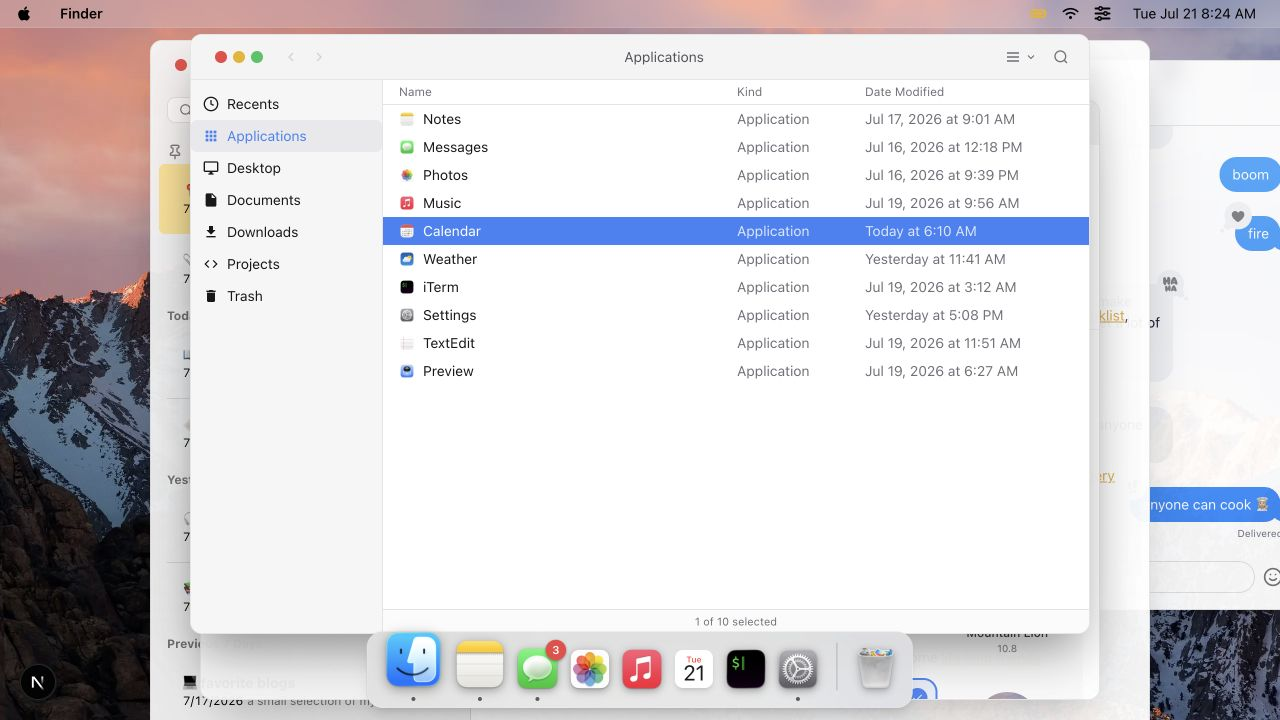
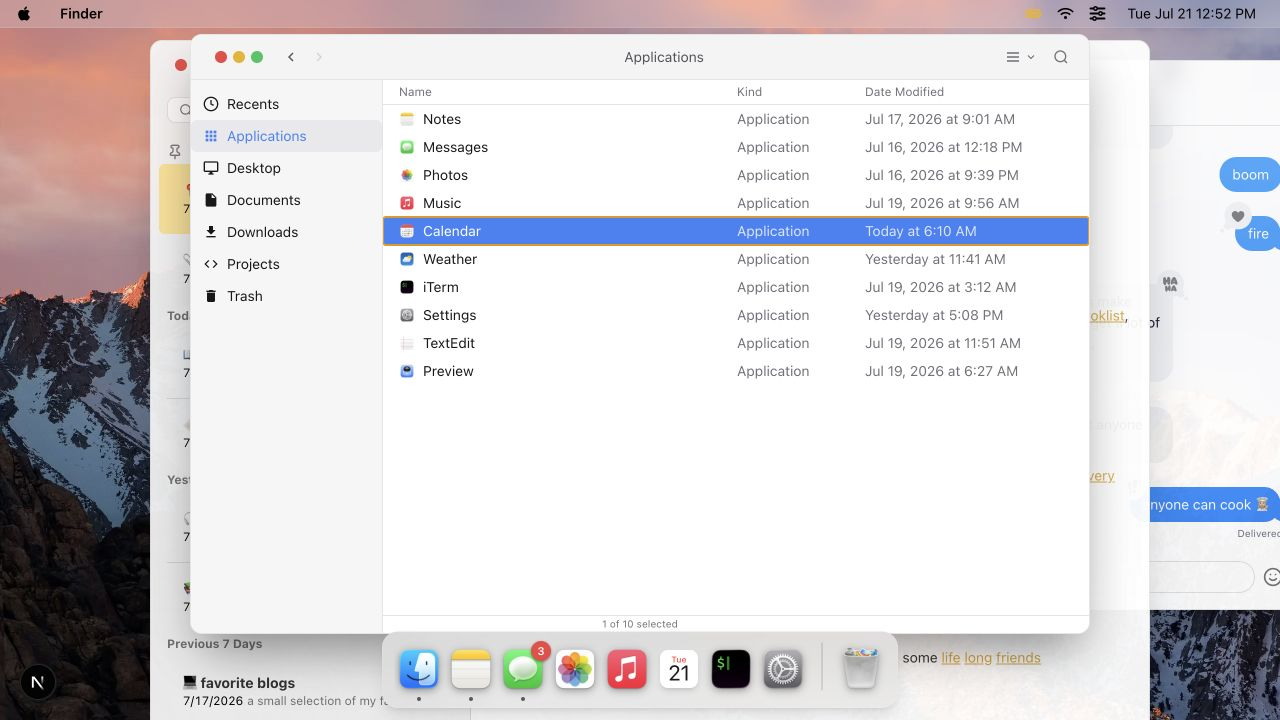
Match Finder status bar layout

diff --git a/components/apps/finder/finder-app.tsx b/components/apps/finder/finder-app.tsx
@@ -1436,7 +1436,7 @@ export function FinderApp({
       data-app="finder"
     >
       {renderNav()}
-      <div className="flex flex-1 min-h-0">
+      <div className="relative flex flex-1 min-h-0">
         {renderSidebar()}
         <div className="flex-1 flex flex-col min-w-0">
           {searchActive && searchQuery && !isMobile && renderScopeBar()}
@@ -1469,11 +1469,15 @@ export function FinderApp({
           )}
           </div>
           <div
-            role="status"
-            className="flex h-6 shrink-0 items-center justify-center border-t border-zinc-200 bg-zinc-50/90 px-3 text-[11px] text-zinc-500 select-none dark:border-zinc-700 dark:bg-zinc-800/90 dark:text-zinc-400"
-          >
-            {statusLabel}
-          </div>
+            aria-hidden="true"
+            className="h-[18px] shrink-0 border-t border-zinc-200 bg-white dark:border-zinc-700 dark:bg-zinc-900"
+          />
+        </div>
+        <div
+          role="status"
+          className="pointer-events-none absolute inset-x-0 bottom-0 flex h-[18px] items-center justify-center px-3 text-[10px] leading-none text-zinc-500 select-none dark:text-zinc-400"
+        >
+          {statusLabel}
         </div>
       </div>
     </div>
